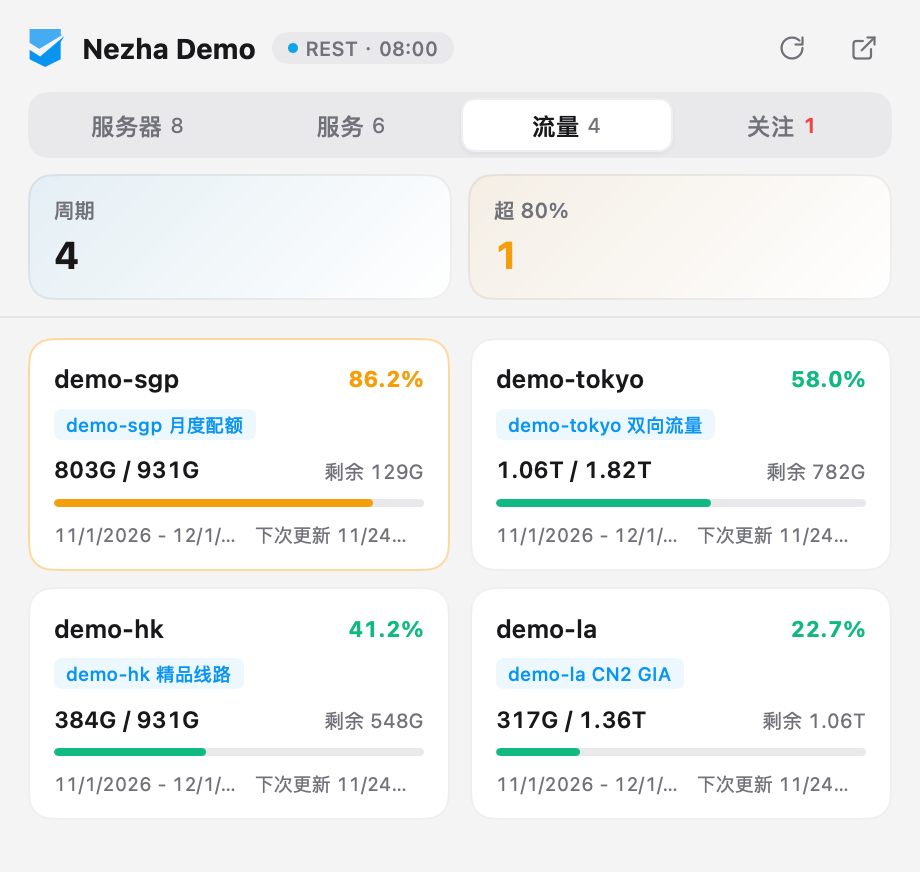
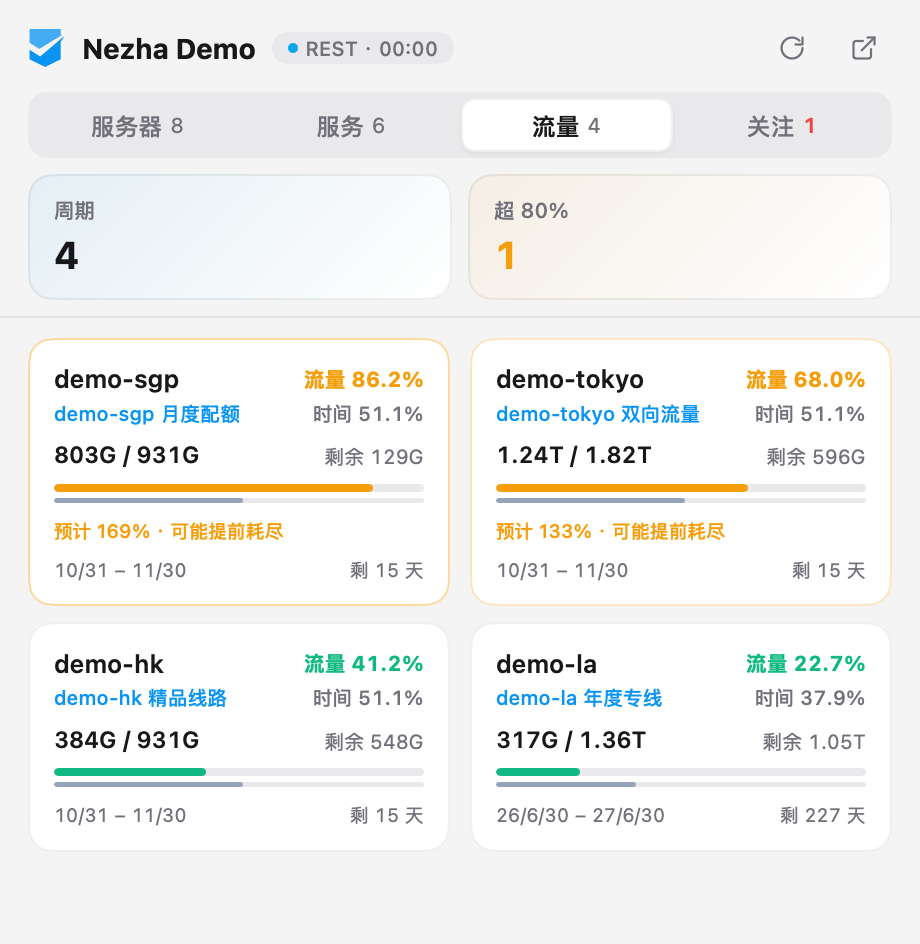
docs: refresh traffic screenshot and add notch & widget previews

diff --git a/README.md b/README.md
@@ -16,13 +16,17 @@
 | --- | --- |
 | ![Detail Overview](assets/detail.png) | ![Detail Network](assets/detail-network.png) |
 
-| Services（服务探测 · 支持目标打码） | Traffic（周期流量与剩余配额） |
+| Services（服务探测 · 支持目标打码） | Traffic（双进度条对比 · 消耗速率预测） |
 | --- | --- |
 | ![Services](assets/services.png) | ![Traffic](assets/traffic.png) |
 
 | Alerts（关注事项 + Plus Inbox 告警） | Servers（紧凑可排序表格视图） |
 | --- | --- |
 | ![Alerts](assets/alerts.png) | ![Servers Table](assets/servers-table.png) |
+
+| Notch（Plus · 刘海屏展开卡片） | Desktop Widget（大尺寸全局总览） |
+| --- | --- |
+| ![Notch Expanded](assets/notch.png) | ![Desktop Widget](assets/widget.png) |
 
 面板宽度支持 400px / 460px / 520px 三档统一调节，高度会随条目数自适应收缩，内容较多时可滚动。
 
